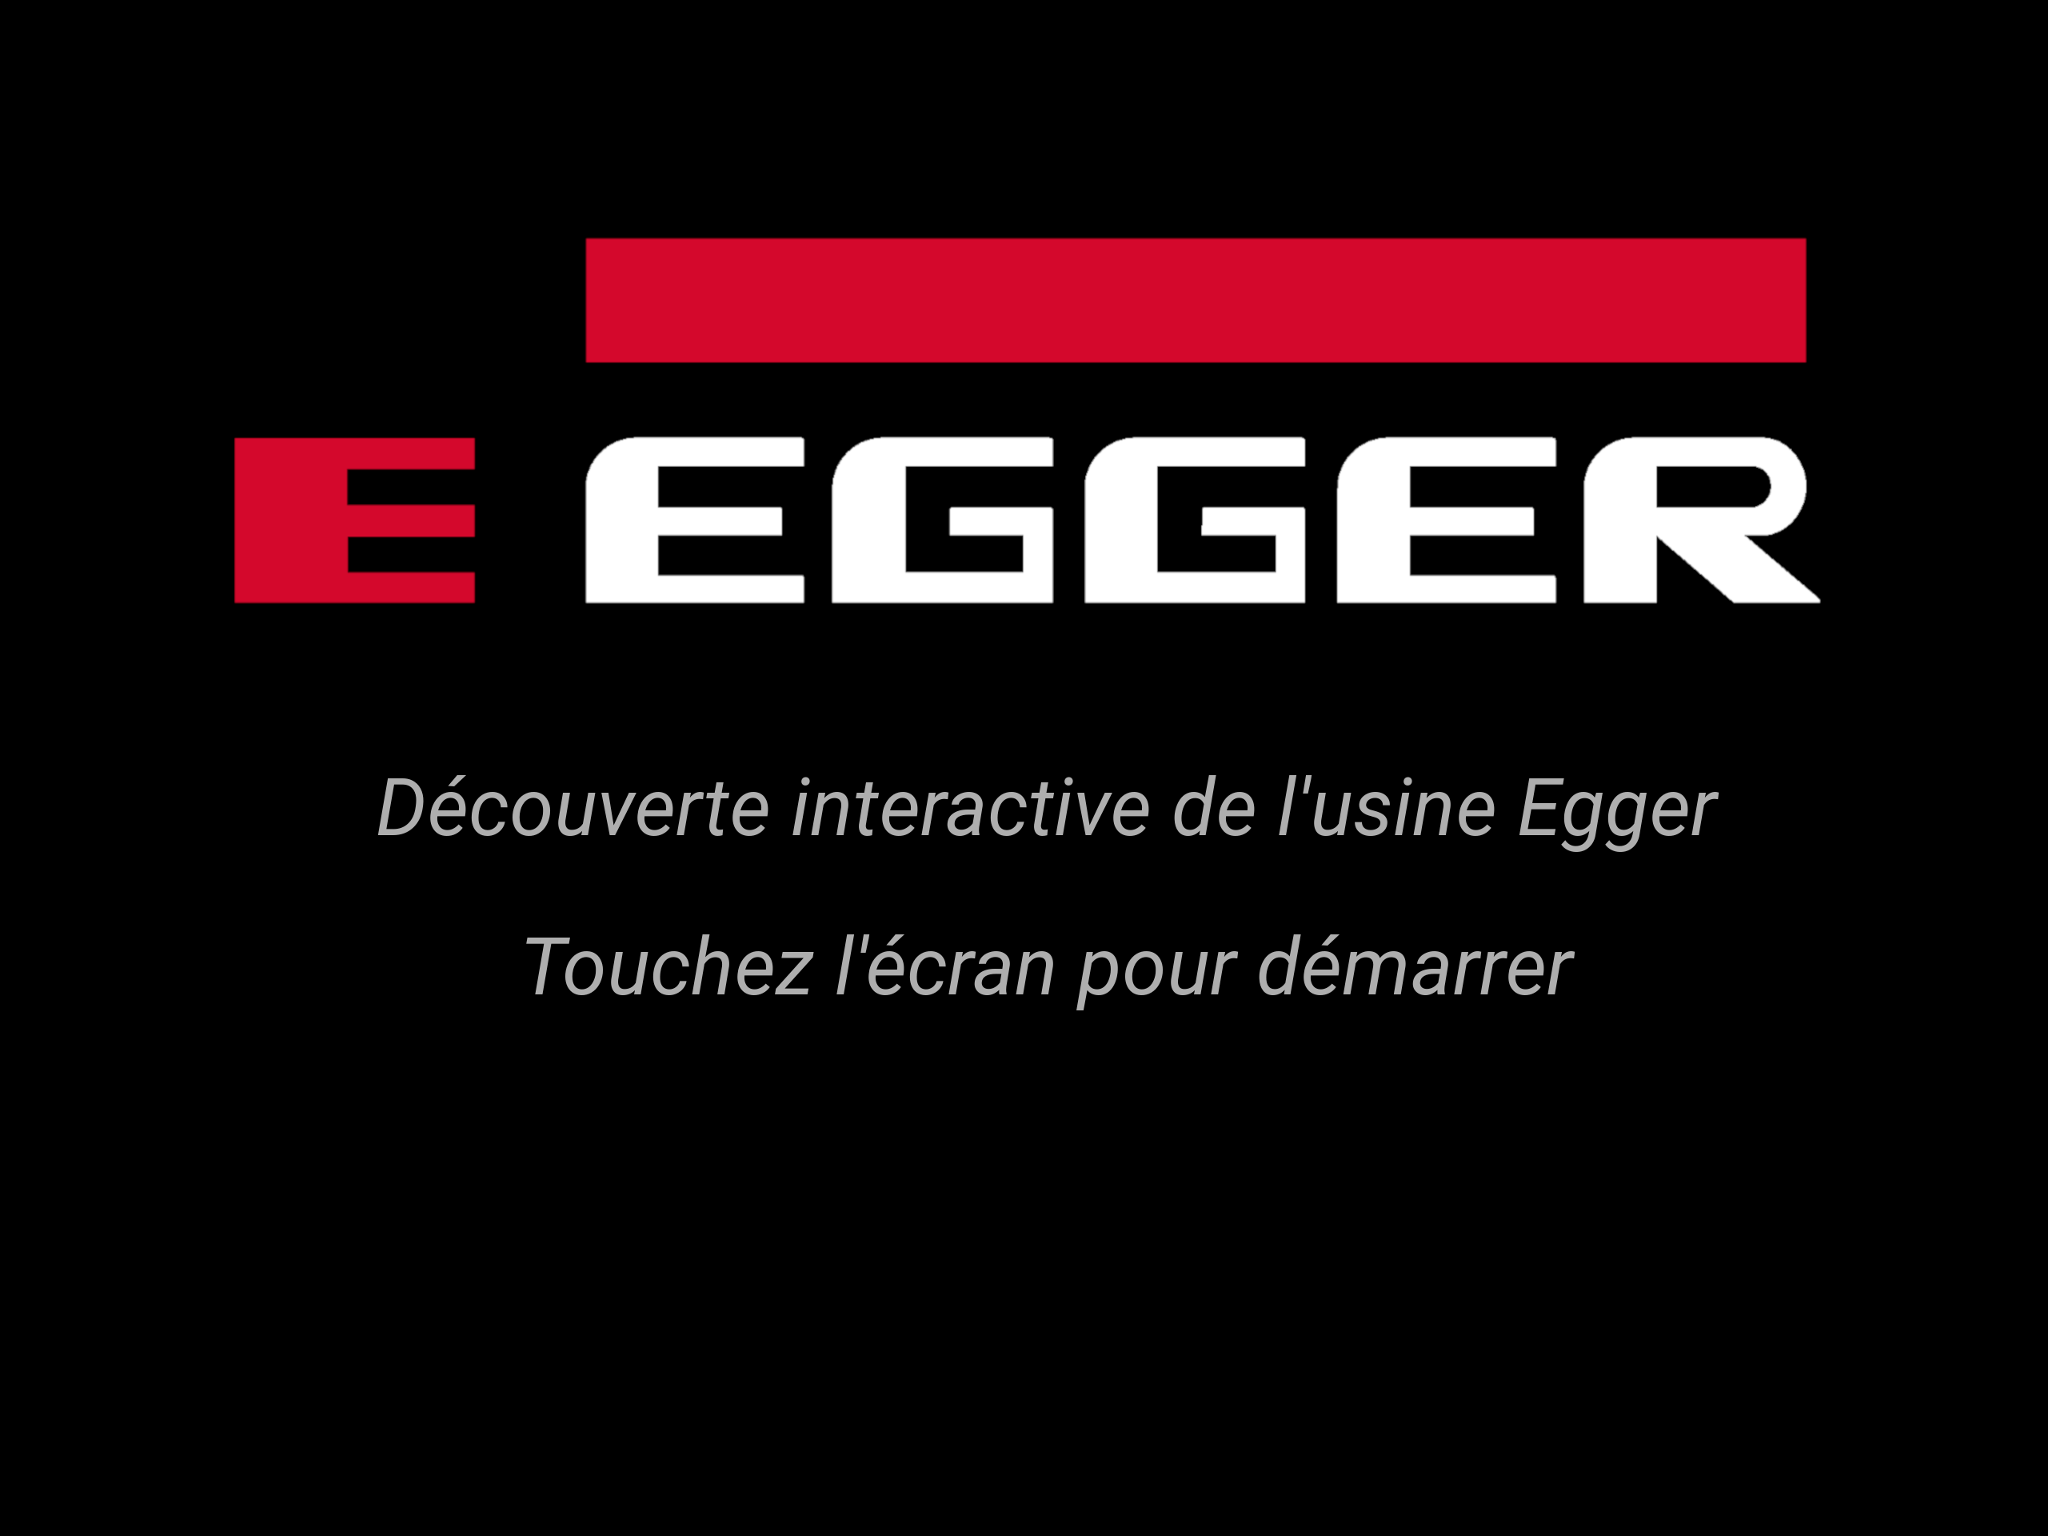
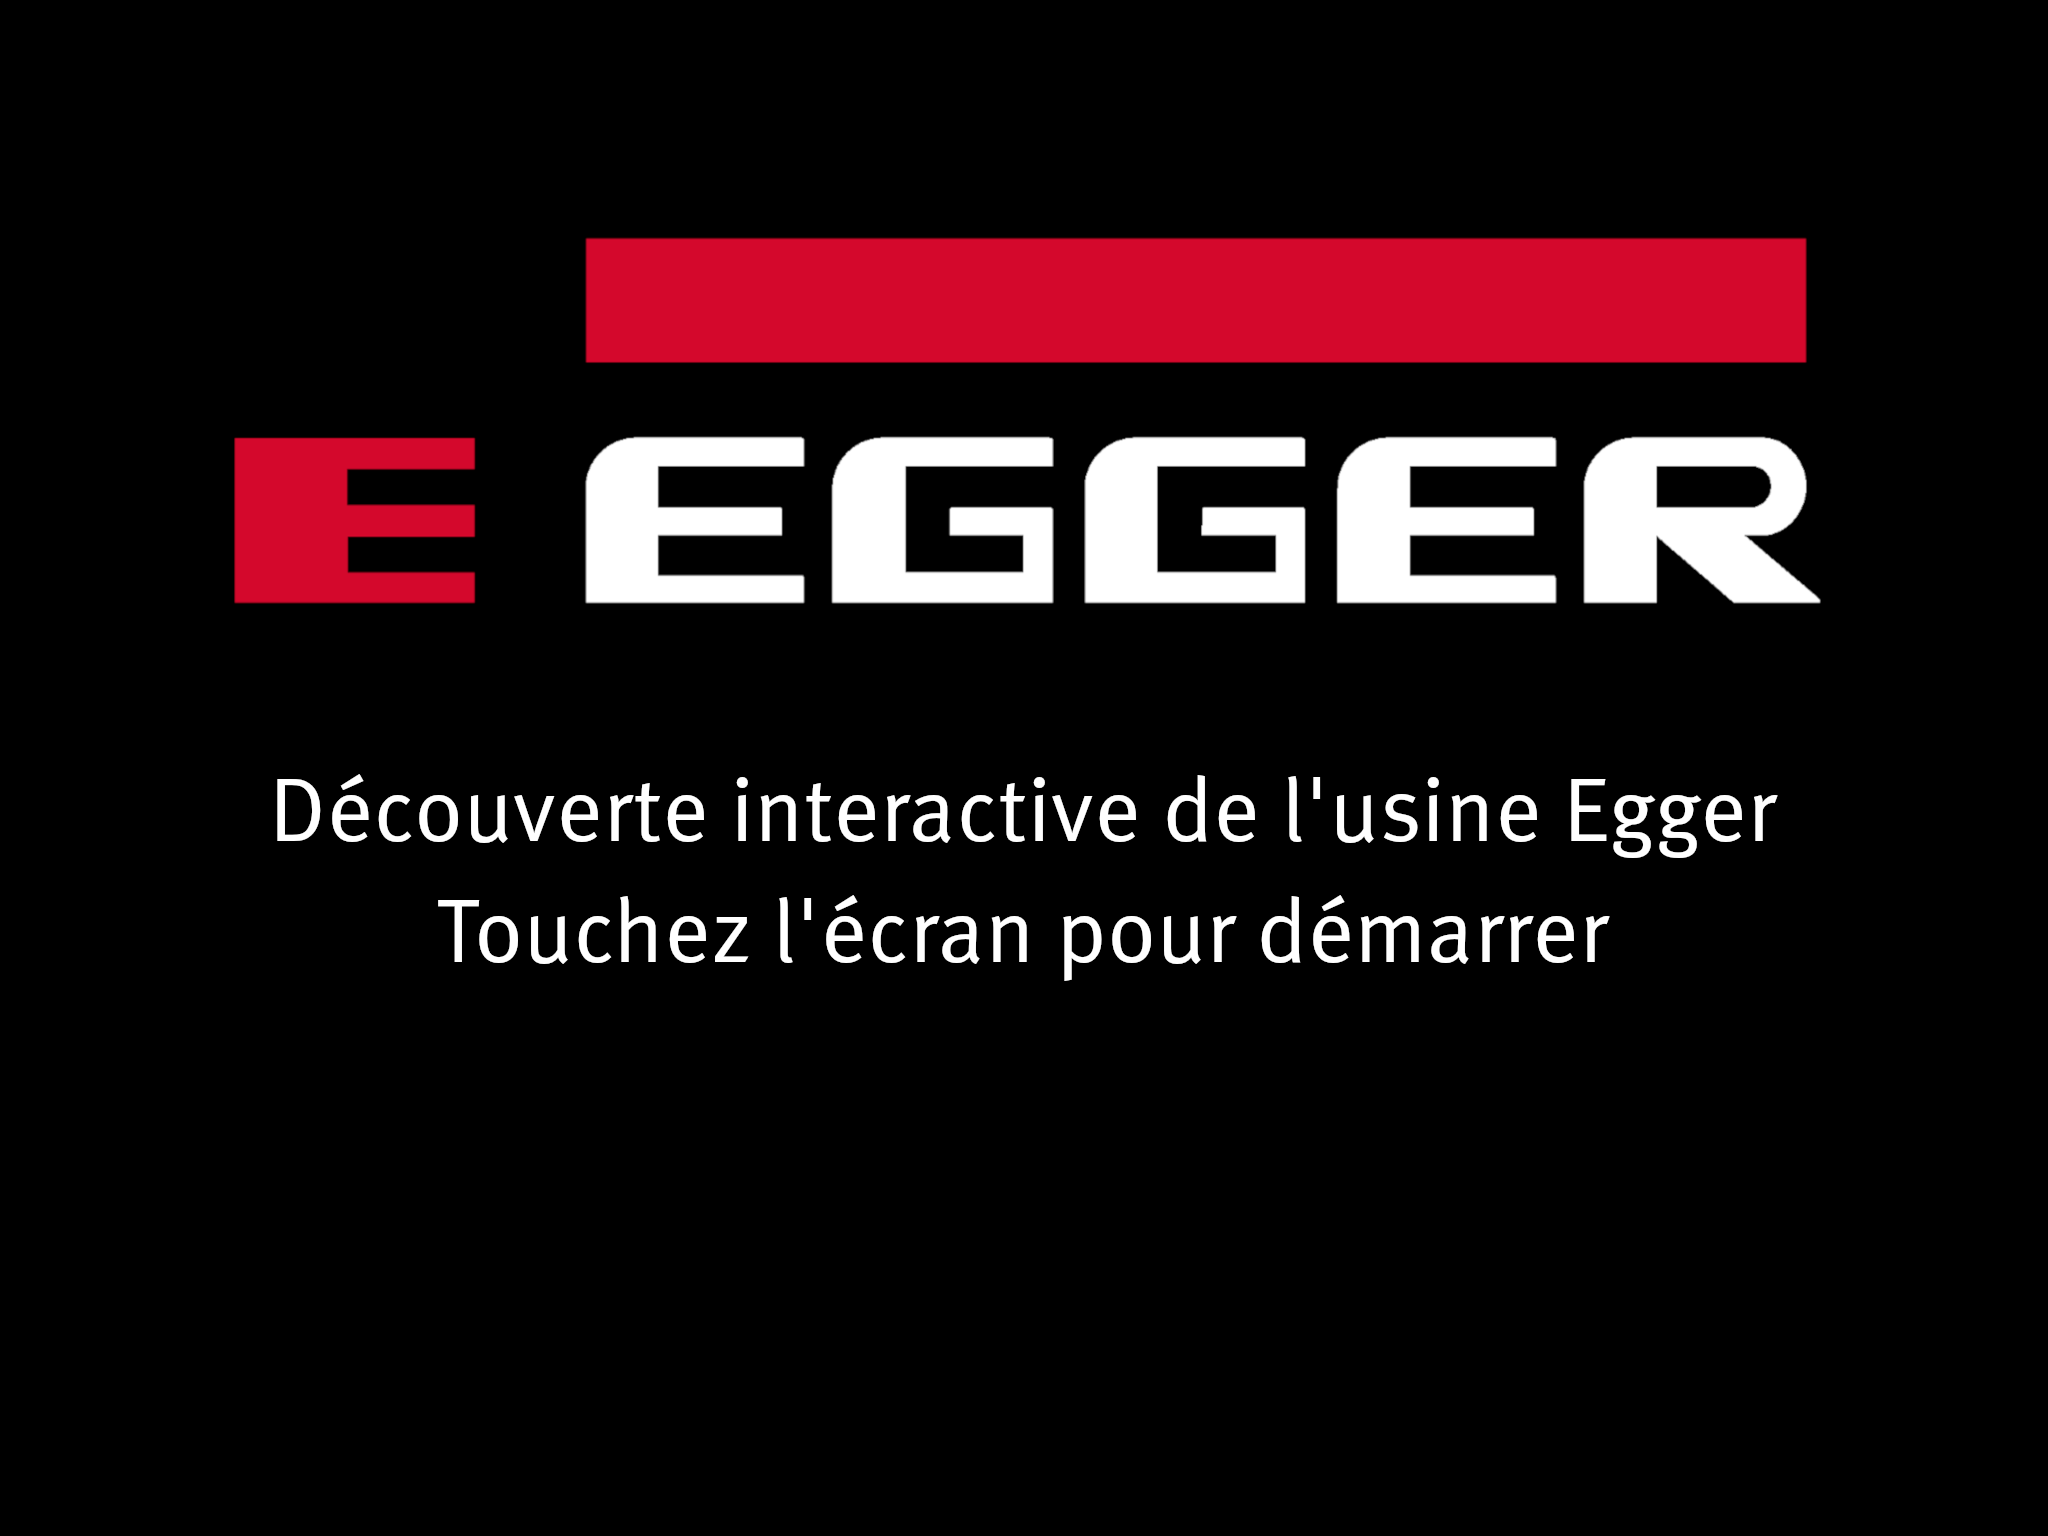
some preproduction polish on egger

Changed region(s): [[0.125, 0.5, 0.875, 0.5625], [0.2188, 0.5938, 0.7812, 0.6562]]

diff --git a/Egger/theme.js b/Egger/theme.js
@@ -1,6 +1,8 @@
 'use strict';
 import default_vars from "@holusion/react-native-holusion/native-base-theme/variables/platform";
 export const theme = {
+    fontFamily: "MetaPro-Normal",
+    titleFontfamily: "MetaPro-Bold",
     brandPrimary: "#e31937ff",
     brandSecondary: "#666666ff",
     fontSizeH2: 24,
